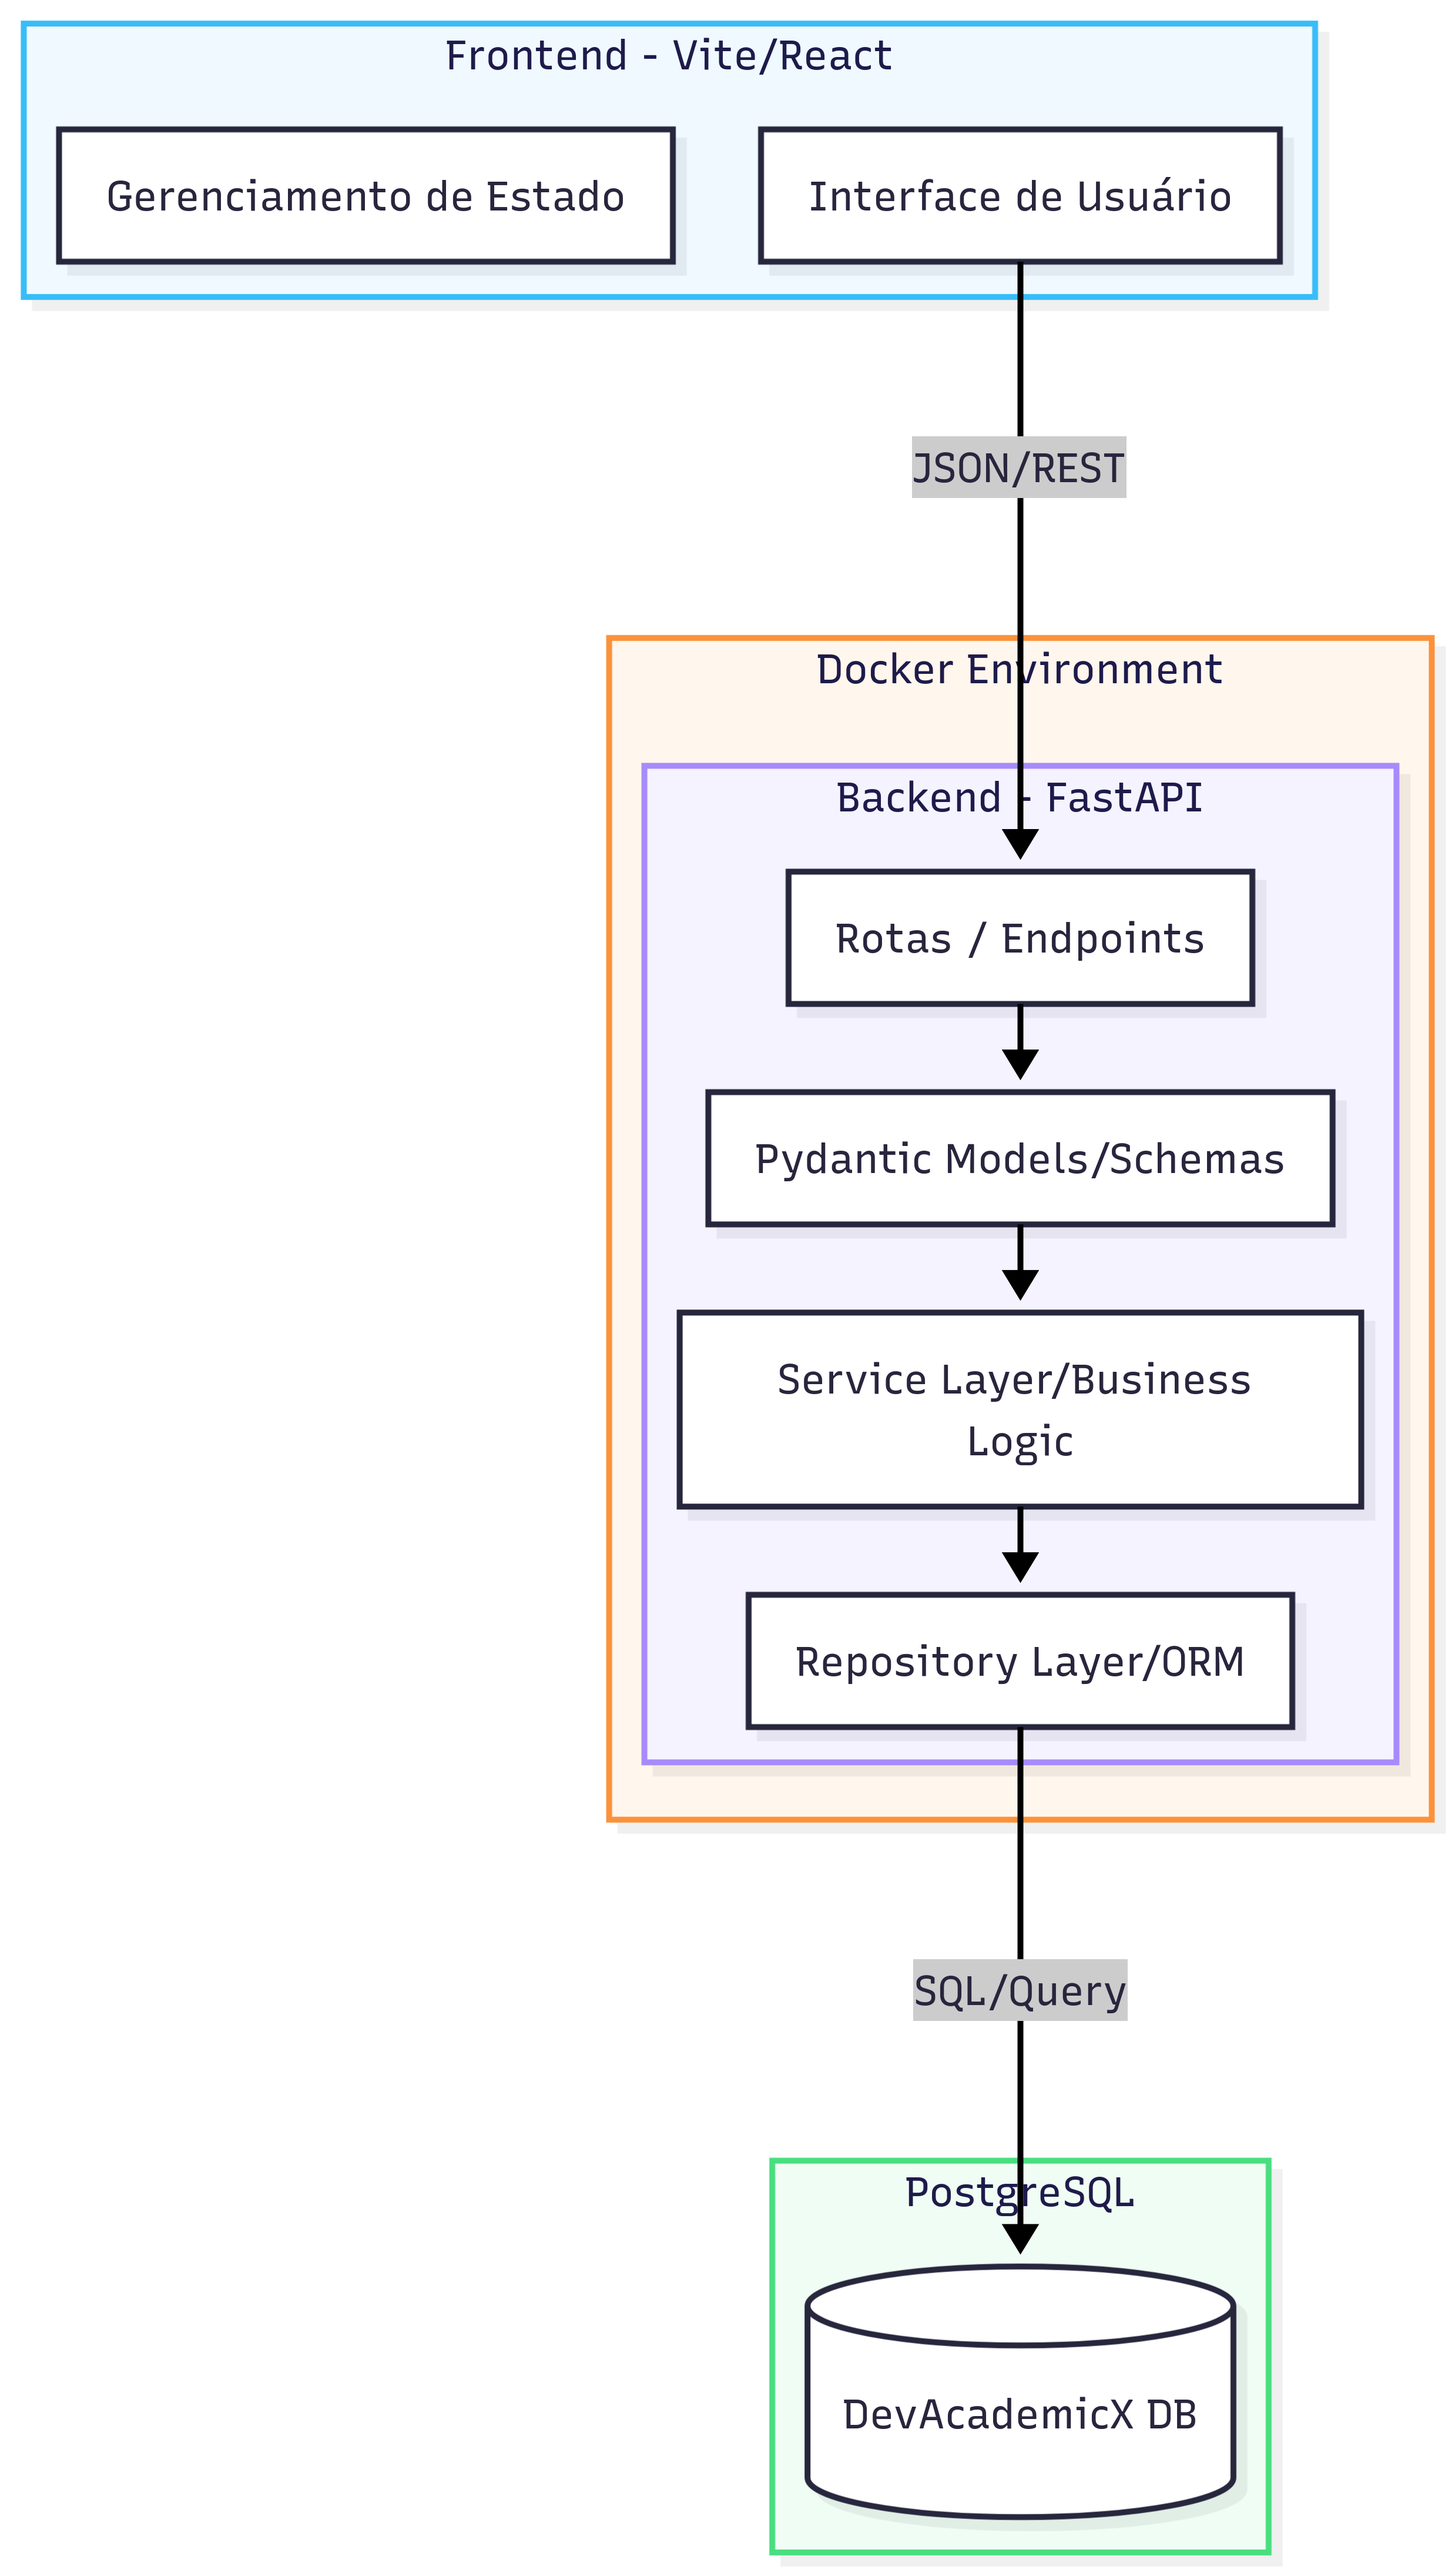
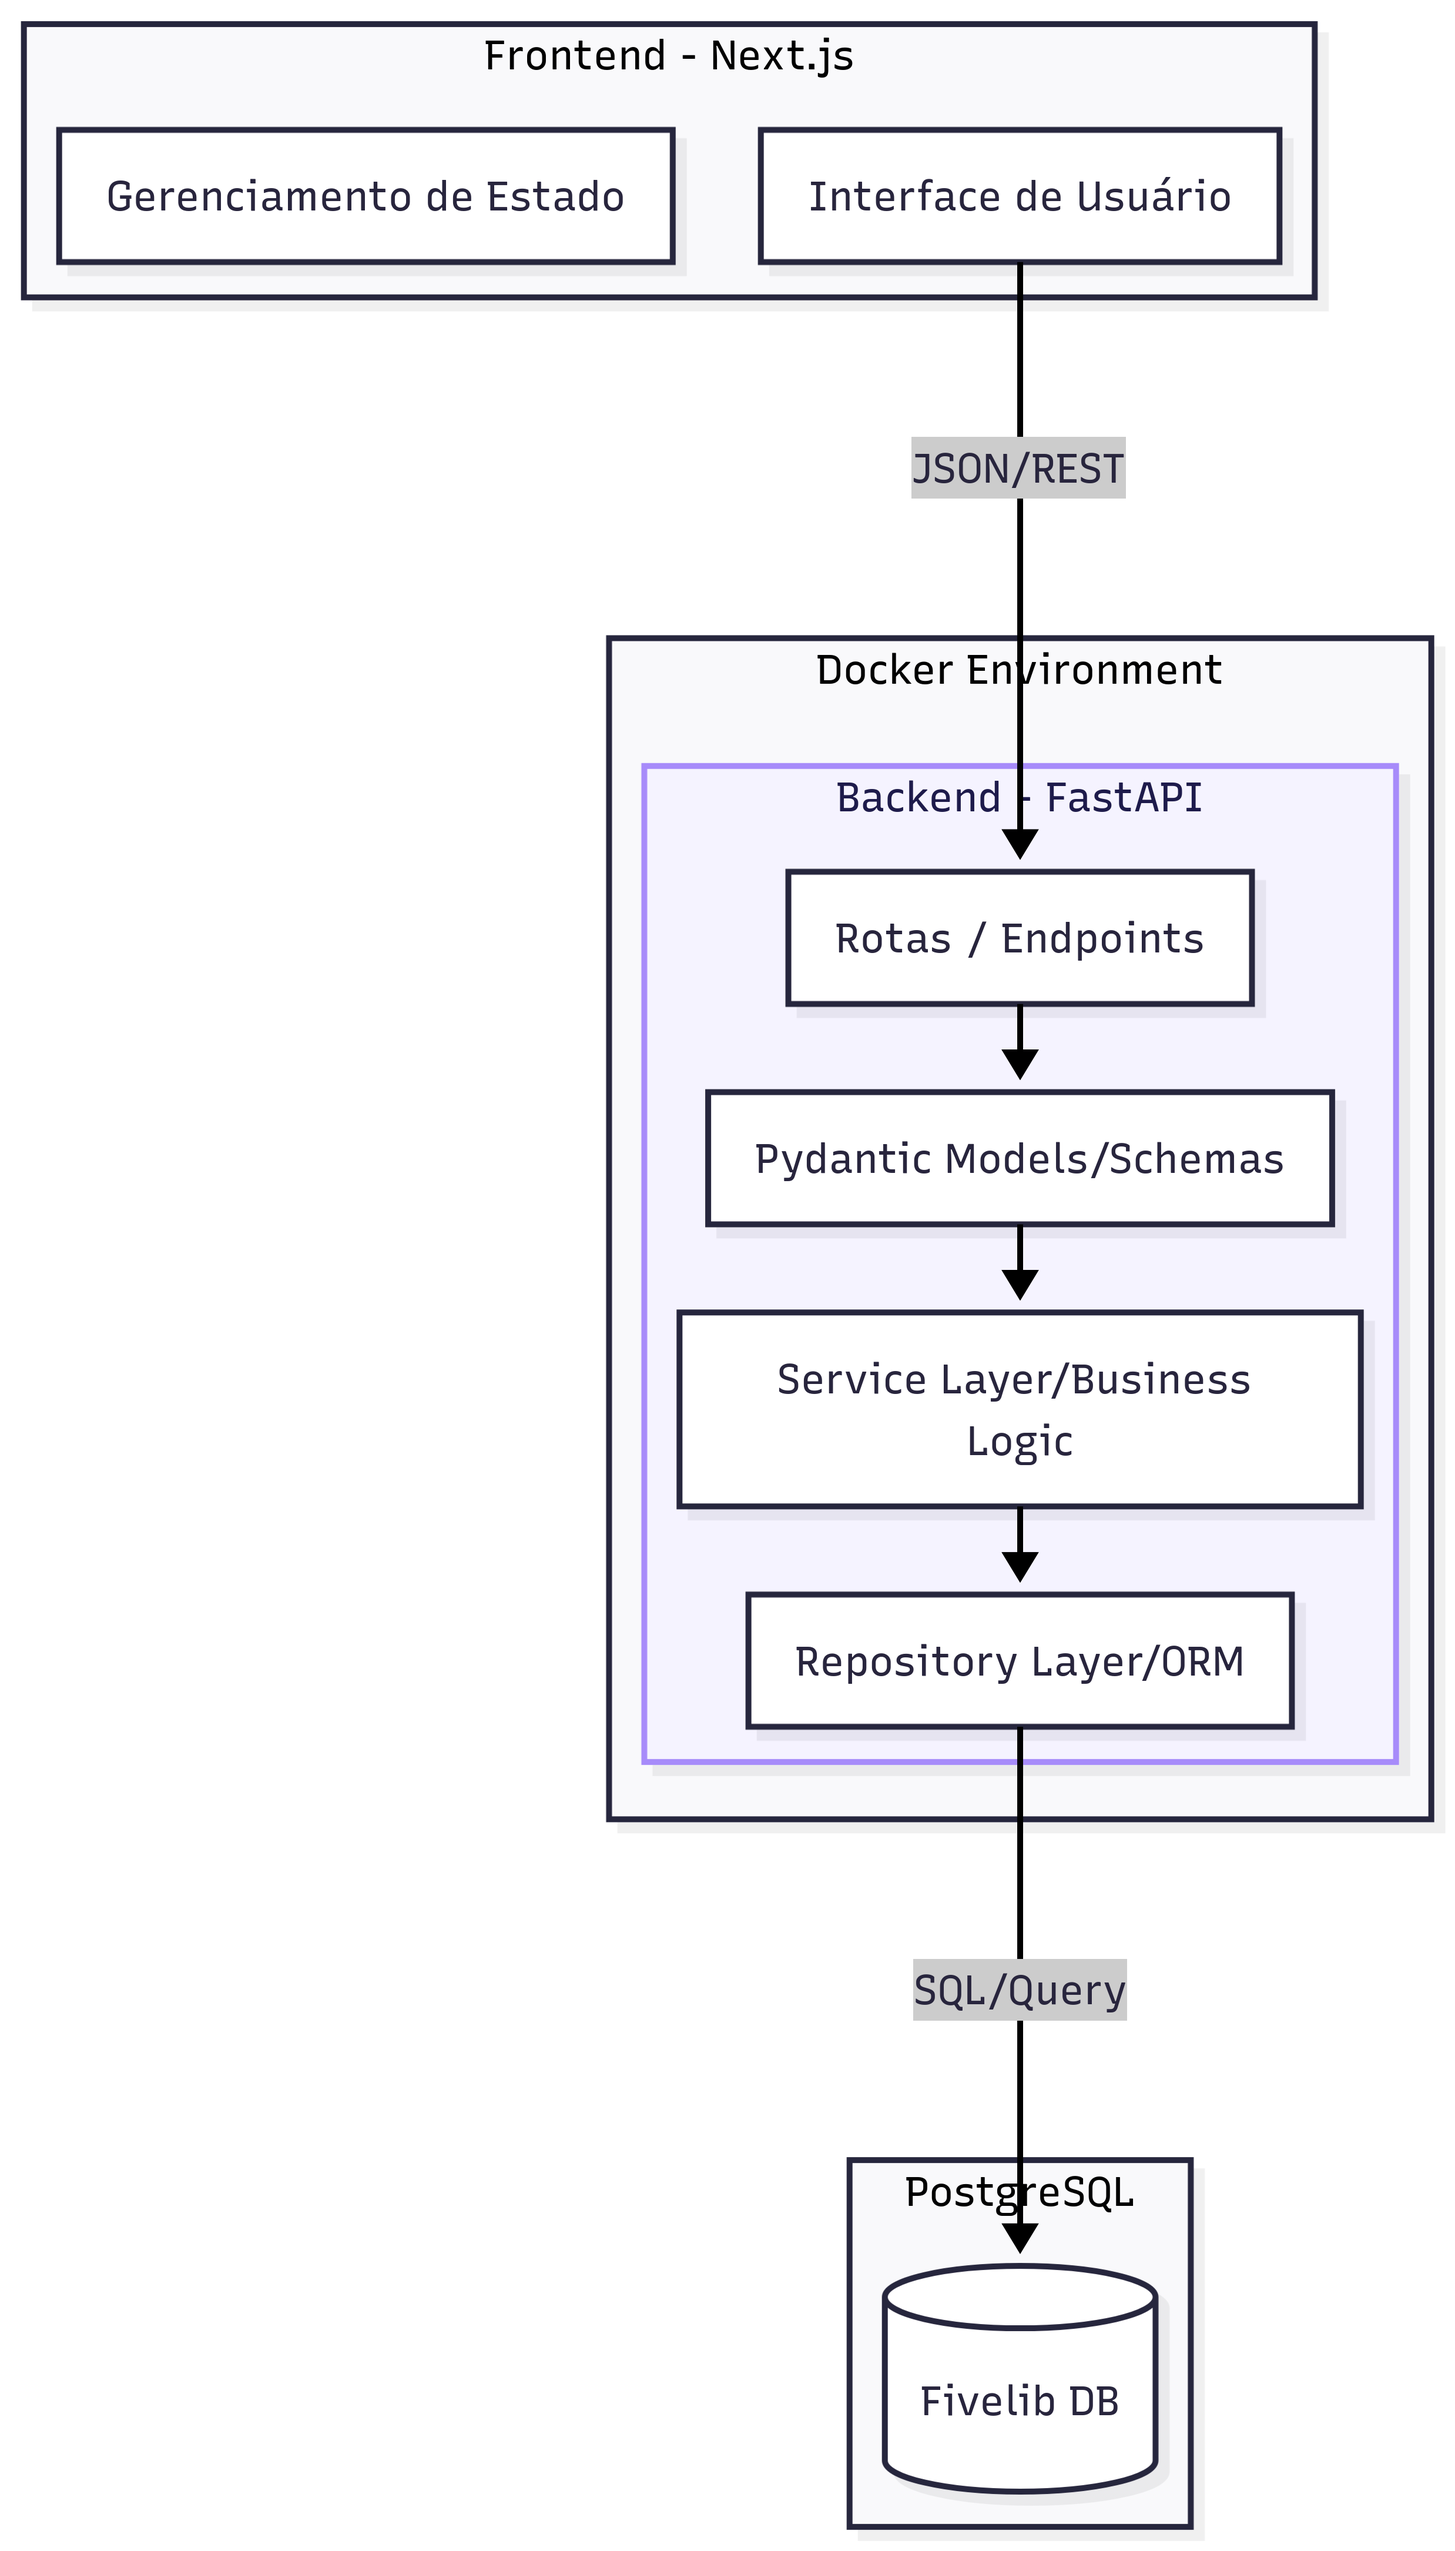
docs: atualização na documentação da arquitetura
Atualização foi feita para refletir as mudanças feitas na arquitetura.

Sendo assim foi atualizado o high-level-architecture, Mockups e o documento de DESIGN.

diff --git a/docs/architecture/DESIGN.md b/docs/architecture/DESIGN.md
@@ -1,3 +1,4 @@
+
 # 🎨 Guia de Identidade Visual e Prototipação - FiveLib
 
 Este documento define o esqueleto visual, a tipografia, as cores e os componentes principais da plataforma FiveLib. Ele serve como base para a implementação do Frontend, respeitando os requisitos definidos no PRD e no Dicionário de Dados.
@@ -11,90 +12,89 @@ O mapeamento completo das interfaces e a lógica de interação foram estruturad
 
 ## 2. Identidade Visual (Design Tokens)
 
-### 2.1 Paleta de Cores
+A identidade visual do FiveLibX foi modernizada, utilizando o ecossistema Next.js com Tailwind CSS e shadcn/ui.
 
-Definição das cores principais da aplicação (valores Hexadecimais):
+### 2.1 Paleta de Cores (Tailwind CSS)
 
-* **Primary (Marca):** `#ffffff`
-* **Background (Fundo):** `#000000`
-* **Text Primary (Texto Principal):** `#000000`
-* **Text Secondary (Texto Secundário):** `#0cc0df`
-* **Success / Info / Warning / Danger:**
-  * **Accent (Cor do link)**: #0cc0df
-  * **Stroke (Cor da borda)**: #b4b4b4
-  * **Activate (Item selecionado):** #ffd21d
+As cores abaixo refletem o tema base configurado no `globals.css` da aplicação:
 
-### 2.2 Tipografia
+| Token                       | Dark Mode (Padrão)           | Light Mode                    | Aplicação                                                  |
+| --------------------------- | ----------------------------- | ----------------------------- | ------------------------------------------------------------ |
+| **Background**        | `#21211f`                   | `#21211f`                   | Fundo principal da aplicação.                              |
+| **Foreground**        | `#d9d9d9`                   | `#d9d9d9`                   | Texto principal.                                             |
+| **Primary / Accent**  | `#c1e328`                   | `#c1e328`                   | Botões principais, links ativos, destaques da marca.        |
+| **Card / Popover**    | `#2a2a28`                   | `#2a2a28`                   | Fundo de componentes elevados (cards, modais, dropdowns).    |
+| **Secondary / Muted** | `#3a3a38`                   | `#3a3a38`                   | Fundos secundários, bordas de inputs, e elementos inativos. |
+| **Muted Foreground**  | `#8a8a88`                   | `#8a8a88`                   | Textos secundários ou de menor importância.                |
+| **Destructive**       | `oklch(0.396 0.141 25.723)` | `oklch(0.577 0.245 27.325)` | Ações de erro ou deleção (Vermelho).                     |
 
-* **Fonte Principal (Sans-serif):** `Inter`, `Roboto`, ou `System UI`. (Usada em títulos e leitura).
+### 2.2 Tipografia (Next/Font)
+
+A tipografia é gerenciada nativamente pelo Next.js (`next/font/google`), garantindo performance sem Flash of Unstyled Text (FOUT).
+
+* **Fonte Sans-serif (Padrão):** `Geist` (Utilizada para leitura, títulos e interface geral).
+* **Fonte Monospace:** `Geist Mono` (Utilizada para blocos de código e elementos técnicos).
+
+### 2.3 Stack de UI e Componentes
+
+A biblioteca de componentes é baseada na arquitetura **Radix UI** primitives, estilizada via **shadcn/ui** (estilo `new-york`), garantindo acessibilidade (WAI-ARIA) e controle total sobre o código. O design inclui:
+
+* Variantes configuradas com `class-variance-authority`.
+* Mesclagem de classes utilitárias via `tailwind-merge` e `clsx`.
+* Animações de entrada/saída via `tw-animate-css`.
+* Ícones do sistema providos pela biblioteca `lucide-react`.
 
 ## 3. Wireframes e Telas Principais (Mockups)
 
-Os wireframes abaixo foram desenhados manualmente (Passo 3 da atividade) com base nos atributos do DER e casos de uso.
+Os wireframes abaixo foram desenhados com base nos atributos do DER e casos de uso.
 
 ### Tela: T1 — Landing Page / Home
 
 * **Objetivo:** Apresentar o sistema e listar ferramentas em destaque.
 * **Campos do DER:** Nome da ferramenta (`tool.nome`), descrição (`tool.descricao`) e linguagem (`tool.linguagem`).
-* **Imagem:** [/assets/mockup/1-home.png](/assets/mockup/1-home.png)
-
-<img src="assets/mockup/1-home.png" width="400">
+* **Imagem:** [/assets/mockup/1-home.png](/docs/architecture/assets/mockup/1-home.png)
 
 ### Tela: T2 — Busca
 
 * **Objetivo:** Localizar bibliotecas específicas através de filtros e termos de pesquisa.
 * **Campos do DER:** `tool.nome`, `tool.linguagem` e `tool.descricao`.
-* **Imagem:** [/assets/mockup/1-busca.png](/assets/mockup/2-busca.png)
-
-<img src="assets/mockup/2-busca.png" width="400">
+* **Imagem:** [/assets/mockup/2-busca.png](/docs/architecture/assets/mockup/4-busca.png)
 
 ### Tela: T3 — Detalhe da Ferramenta
 
 * **Objetivo:** Exibir informações completas de uma ferramenta e permitir a ação de favoritar.
 * **Campos do DER:** `tool.nome`, `tool.descricao`, `tool.url_oficial`, `tool.linguagem` e `favorite.usuario_id`.
-* **Imagem:** [/assets/mockup/3-ferramenta.png](/assets/mockup/3-ferramenta.png)
-
-<img src="assets/mockup/3-ferramenta.png" width="400">
+* **Imagem:** [/assets/mockup/3-ferramenta.png](/docs/architecture/assets/mockup/8-ferramenta)
 
 ### Tela: T4 — Login
 
 * **Objetivo:** Autenticar o usuário.
 * **Campos do DER:** E-mail (`user.email`) e senha (`user.senha`).
-* **Imagem:** [/assets/mockup/4-login.png](/assets/mockup/4-login.png)
-
-<img src="assets/mockup/4-login.png" width="400">
+* **Imagem:** [/assets/mockup/4-login.png](/docs/architecture/assets/mockup/2-login.png)
 
 ### Tela: T5 — Cadastro
 
 * **Objetivo:** Permitir que novos utilizadores criem uma conta na plataforma para acederem a funcionalidades personalizadas (favoritos e links privados).
 * **Campos do DER:** `user.nome`, `user.email`, `user.senha` e `user.data_nascimento` (essencial para a regra de negócio de maioridade).
-* **Imagem:** [/assets/mockup/5-cadastro.png](/assets/mockup/5-cadastro.png)
-
-<img src="assets/mockup/5-cadastro.png" width="400">
+* **Imagem:** [/assets/mockup/5-cadastro.png](/docs/architecture/assets/mockup/3-cadastro.png)
 
 ### Tela: T6 — Perfil (Biblioteca Pessoal)
 
 * **Objetivo:** Gerenciar favoritos (RN03).
 * **Campos do DER:** Lista de ferramentas relacionadas via tabela **Favorite** e links privados da tabela  **PrivateLink** .
-* **Imagem:** [/assets/mockup/6-perfil.png](/assets/mockup/6-perfil.png)
-
-<img src="assets/mockup/6-perfil.png" width="400">
+* **Imagem:** [/assets/mockup/6-perfil.png](/docs/architecture/assets/mockup/5-perfil.png)
 
 ### Tela: T7 — Suporte
 
 * **Objetivo:** Canal de comunicação para o usuário enviar dúvidas ou reportar erros.
 * **Campos do DER:** `support_ticket.email_contato`, `support_ticket.mensagem` e `support_ticket.secao_site`.
-* **Imagem:** [/assets/mockup/7-suporte.png](/assets/mockup/7-suporte.png)
-
-<img src="assets/mockup/7-suporte.png" width="400">
+* **Imagem:** [/assets/mockup/7-suporte.png](/docs/architecture/assets/mockup/6-suporte.png)
 
 ### Tela: T8 — Admin (Dashboard)
 
 * **Objetivo:** Gestão administrativa de usuários, ferramentas e tickets de suporte.
 * **Campos do DER:** `support_ticket.status`, `user.perfil` e `tool.status_ativo`.
-* **Imagem:** [/assets/mockup/8-admin.png](/assets/mockup/8-admin.png)
-
-<img src="assets/mockup/8-admin.png" width="400">
+* **Imagem:** [/assets/mockup/8-admin.png](/docs/architecture/assets/mockup/7-admin.png)
 
 ---
 
